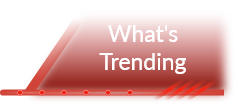
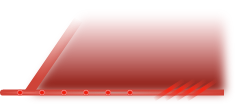
[#168160770] Updated trending hover image logic.

Changed region(s): [[0.41, 0.4722, 0.7908, 0.6944], [0.4393, 0.2222, 0.7615, 0.3889]]

diff --git a/src/components/home/homePage.js b/src/components/home/homePage.js
@@ -1,4 +1,4 @@
-import React, { Fragment } from 'react'
+import React, { Fragment, useState } from 'react'
 import Media from 'react-media';
 import { Link } from 'react-router-dom';
 import { Button, Row, Col } from "reactstrap";
@@ -8,18 +8,18 @@ import logoM from '../../assets/images/home/bulb-image-mobile.png';
 
 import { ParallaxImg, BannerSubText, BannerText, ConctactUsRightText } from "./homeStyledComponents.js"
 import * as routeConstants from "../../routeConstants.js";
-import whatsNewLogo from "../../assets/images/home/whats_new.png";
+import whatsNewLogo from "../../assets/images/home/whats_new.svg";
 import whatsTrendingMb from "../../assets/images/home/whats_trending_mb.svg";
 import whatsTrendingHover from "../../assets/images/home/whats_trending_hover.png"
 
 const HomePage = (props) => {
   const { setOpenTrending } = props;
+  const [hoverState, setHoverState] = useState(false);
 
   return (
     <>
       <div style={{ backgroundColor: "#333333", }}>
         <div className="row">
-
           <div className="col-md-6 col-xs-12">
             <Media query="(max-width: 500px)">
               {matches =>
@@ -52,12 +52,12 @@ const HomePage = (props) => {
             }
           </Media>
           <div className="col-md-2 d-xs-none ">
-            <div onClick={setOpenTrending} className="img-container cursor-pointer">
-              <img src={whatsNewLogo} alt="What's Trending?"
-                onMouseOver={e => (e.currentTarget.src = whatsTrendingHover)}
-                onMouseOut={e => (e.currentTarget.src = whatsNewLogo)}
-              />
-              {/* <span className="img-centered-text">What's <br /> Trending?</span> */}
+            <div onClick={setOpenTrending} className="img-container cursor-pointer"
+              onMouseOver={() => setHoverState(true)}
+              onMouseOut={() => setHoverState(false)}
+            >
+              <img src={hoverState ? whatsTrendingHover : whatsNewLogo} alt="What's Trending?" />
+              <span className="img-centered-text">What's <br /> Trending?</span>
             </div>
           </div>
         </div>
